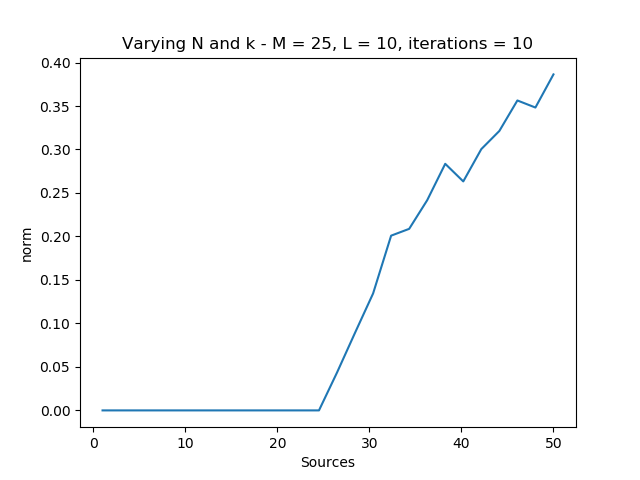
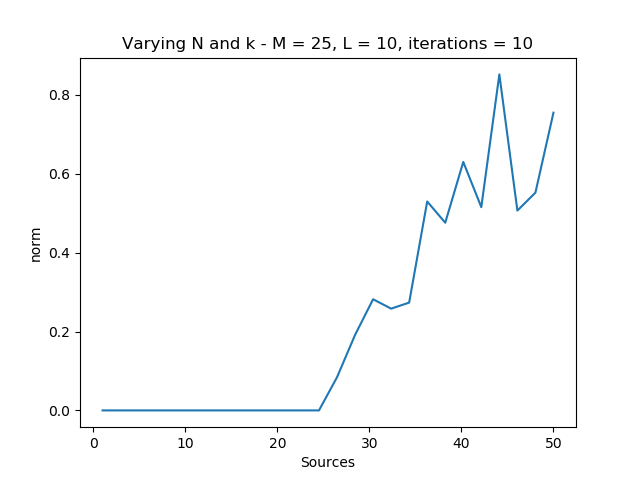
L

diff --git a/Python_kode/MSBL_Error.py b/Python_kode/MSBL_Error.py
@@ -21,18 +21,18 @@ np.random.seed(2)
 # =============================================================================
 # Initial Conditions and known signals
 # =============================================================================
-m = 8                # number of sensors
-n = 8                # number of sources
-non_zero = 4        # max number of non-zero coef. in rows of X
-n_samples = 100   # number of sampels
-#duration = 8
-iterations = 1000
-noise = False
-
-Y, A, X = data_generation.generate_AR_v1(n, m, n_samples, non_zero)
-X_rec = MSBL.M_SBL(A, Y, m, n, n_samples, non_zero, iterations, noise)
-
-norm = mean_squared_error(X/len(X), X_rec/len(X_rec))
+#m = 8                # number of sensors
+#n = 8                # number of sources
+#non_zero = 4        # max number of non-zero coef. in rows of X
+#n_samples = 100   # number of sampels
+##duration = 8
+#iterations = 1000
+#noise = False
+#
+#Y, A, X = data_generation.generate_AR_v1(n, m, n_samples, non_zero)
+#X_rec = MSBL.M_SBL(A, Y, m, n, n_samples, non_zero, iterations, noise)
+#
+#norm = mean_squared_error(X/len(X), X_rec/len(X_rec))
 
 #plt.figure(1)
 #plt.subplot(4, 1, 1)
@@ -107,7 +107,7 @@ norm = mean_squared_error(X/len(X), X_rec/len(X_rec))
 #plt.ylabel('norm')
 #plt.savefig('varying_samples.png')
 #plt.show()
-#
+
 ## =============================================================================
 ## Finding X - Varying N sources
 ## =============================================================================
@@ -125,7 +125,7 @@ norm = mean_squared_error(X/len(X), X_rec/len(X_rec))
 #    Y, A, X = data_generation.generate_AR_v2(int(n_vary[i]), m, n_samples, non_zero)
 #    X_rec_N = MSBL.M_SBL(A, Y, m, int(n_vary[i]), n_samples, non_zero, iterations, noise)
 #    mse[i] = mean_squared_error(X, X_rec_N)
-#    norm[i] = mean_squared_error(X/np.max(X), X_rec_N/np.max(X_rec_N))
+#    norm[i] = np.linalg.norm(X - X_rec_N)/len(n_vary)
 ##    temp = X - X_rec_N
 ##    norm[i] = temp/np.max(temp)
 #
@@ -141,27 +141,27 @@ norm = mean_squared_error(X/len(X), X_rec/len(X_rec))
 ## =============================================================================
 ## Finding X - Varying k non-zero rows
 ## =============================================================================
-#k_vary = np.linspace(1,50,26)
-#m = 25
-#n = 50
-#n_samples = 10
-#duration = 8
-#iterations = 10
-#noise = False
-#mse = np.zeros(len(k_vary))
-#norm = np.zeros(len(k_vary))
-#for i in range(len(k_vary)):
-#    #print(i)
-#    Y, A, X = data_generation.generate_AR_v2(m, n, n_samples, int(k_vary[i]))
-#    X_rec_k = MSBL.M_SBL(A, Y, m, n, n_samples, int(k_vary[i]), iterations, noise)
-#    mse[i] = mean_squared_error(X, X_rec_k)
-#    norm[i] = np.linalg.norm(X - X_rec_k)/len(k_vary)
-#
-#plt.figure(3)
-##plt.plot(k_vary, mse)
-#plt.plot(k_vary, norm)
-#plt.title('Varying k - M = 25, N = 50, L = 10, iteration = 10')
-#plt.xlabel('non-zeros')
-#plt.ylabel('Norm')
-#plt.savefig('varying_non_zeros.png')
-#plt.show()
+k_vary = np.linspace(1,50,26)
+m = 25
+n = 50
+n_samples = 10
+duration = 8
+iterations = 10
+noise = False
+mse = np.zeros(len(k_vary))
+norm = np.zeros(len(k_vary))
+for i in range(len(k_vary)):
+    #print(i)
+    Y, A, X = data_generation.generate_AR_v2(m, n, n_samples, int(k_vary[i]))
+    X_rec_k = MSBL.M_SBL(A, Y, m, n, n_samples, int(k_vary[i]), iterations, noise)
+    mse[i] = mean_squared_error(X, X_rec_k)
+    norm[i] = np.linalg.norm(X - X_rec_k)/len(k_vary)
+
+plt.figure(3)
+#plt.plot(k_vary, mse)
+plt.plot(k_vary, norm)
+plt.title('Varying k - M = 25, N = 50, L = 10, iteration = 10')
+plt.xlabel('non-zeros')
+plt.ylabel('Norm')
+plt.savefig('varying_non_zeros.png')
+plt.show()
